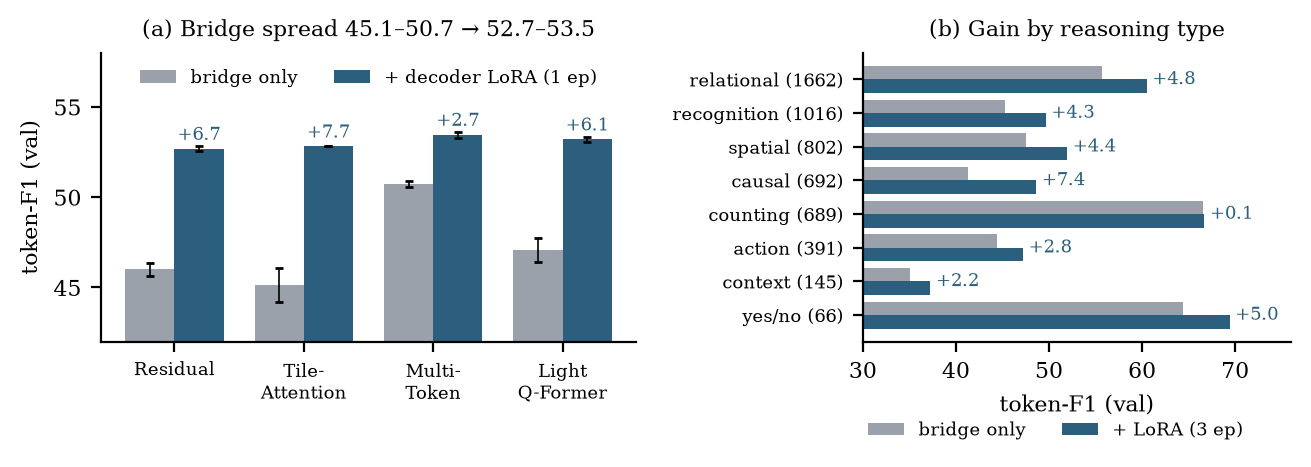
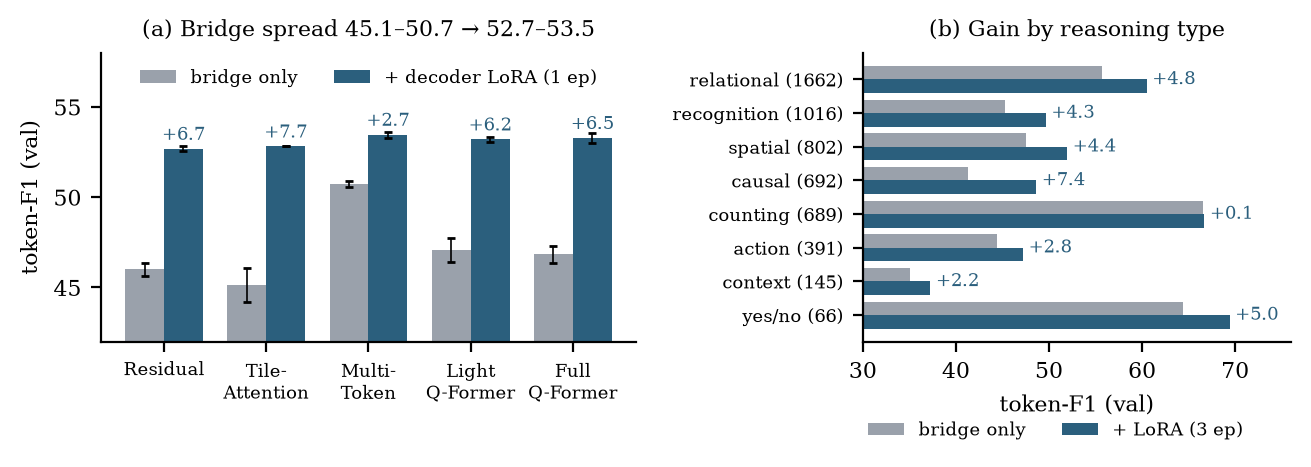
paper(aciids2027): add the leak-fixed Full Q-Former (3 seeds, whole image)
Full Q-Former retrained with the answer masked (peer commit 4a8eb6d): F1 46.84 -> +LoRA
53.29 (+6.5), CIDEr 87.7 -> 106.5. Added to Table 5, Fig. 2a and the capacity row of
Table 6 (-3.90); capacity sentence now cites both Q-Formers. Last \todo removed; all
tables on the whole-image protocol.

Changed region(s): [[0.0915, 0.2398, 0.4882, 0.7495], [0.0915, 0.7794, 0.4882, 0.8694]]

diff --git a/paper/aciids2027/Section/Experiments.tex b/paper/aciids2027/Section/Experiments.tex
@@ -206,15 +206,15 @@ bridge-only Multi-Token model (F1 50.74).
 \paragraph{Bridge architecture and decoder adaptation.}
 Table~\ref{tab:bridges} and Fig.~\ref{fig:results}a compare the bridges. Without
 LoRA, they span 45.14--50.74 F1. The Multi-Token bridge is the best and has the
-lowest validation cross-entropy, while the Light Q-Former, with $3.8\times$ more
-parameters, is 3.7 F1 lower: a larger bridge does not help a frozen decoder.
+lowest validation cross-entropy, while the Light and Full Q-Formers, with $3.8\times$
+and $9.4\times$ more parameters, are 3.7 and 3.9 F1 lower: a larger bridge does not
+help a frozen decoder.
 Training with decoder LoRA improves \emph{every} bridge, even though the joint
 1-epoch run sees the data half as often as the 2-epoch bridge-only run, and the
 improvement is largest for the weakest bridges ($+7.7$ for Tile-Attention, $+6.7$
 for Residual, $+2.7$ for Multi-Token). After LoRA, the bridges lie within 0.8 F1
 (52.69--53.47) and 2.4 CIDEr points, compared with 5.6 F1 and 14.9 CIDEr points
 before. Once the decoder can adapt, the choice of bridge therefore matters little.
-\todo{add the Full Q-Former row (answer leak fixed, retraining in progress).}
 
 \begin{table}[t]
 \centering
@@ -233,6 +233,7 @@ Residual        & 1 & 4.86M (0.52\%) & 1.67 & $46.02\pm0.36$ & $52.69\pm0.14$ & 
 Tile-Attention  & 8 & 4.14M (0.44\%) & 1.68 & $45.14\pm0.92$ & $52.82^\ast$ & $+7.7$ & $84.1\pm1.4$ & $104.7^\ast$ \\
 \textbf{Multi-Token} & \textbf{8} & \textbf{7.35M (0.78\%)} & \textbf{1.49} & $\mathbf{50.74\pm0.17}$ & $\mathbf{53.47\pm0.17}$ & $+2.7$ & $\mathbf{99.1\pm0.5}$ & $\mathbf{106.7\pm0.7}$ \\
 Light Q-Former  & 8 & 27.6M (2.87\%) & 1.60 & $47.06\pm0.66$ & $53.21\pm0.14$ & $+6.1$ & $88.1\pm1.9$ & $106.3\pm0.7$ \\
+Full Q-Former   & 16 & 69.4M (6.91\%) & 1.61 & $46.84\pm0.47$ & $53.29\pm0.29$ & $+6.5$ & $87.7\pm1.2$ & $106.5\pm1.0$ \\
 \bottomrule
 \end{tabular}}
 \end{table}
@@ -257,6 +258,7 @@ intervention with a clear gain is decoder adaptation.
 \toprule
 Component & Intervention & $\Delta$F1 \\
 \midrule
+Bridge capacity & Full Q-Former instead of Multi-Token & $-3.90$ \\
 Training signal & random reference answer per epoch & $-2.07$ \\
 Alignment & feature distillation to the original projector & $-0.39$ \\
 Alignment & logit distillation, weight $\lambda=0.1$ / $\lambda=1$ & $-0.28$ / $-9.05$ \\

diff --git a/paper/aciids2027/figures/make_figures.py b/paper/aciids2027/figures/make_figures.py
@@ -14,17 +14,17 @@ GREY, BLUE, RED = "#9aa1ab", "#2b5f7d", "#a33b3b"
 fig, (a, b) = plt.subplots(1, 2, figsize=(6.6, 2.5), gridspec_kw={"width_ratios": [1.25, 1]})
 
 # (a) decoder LoRA equalises the five bridges (in-house token-F1, val)
-names = ["Residual", "Tile-\nAttention", "Multi-\nToken", "Light\nQ-Former"]
+names = ["Residual", "Tile-\nAttention", "Multi-\nToken", "Light\nQ-Former", "Full\nQ-Former"]
 # whole-image re-evaluation (plans/paper-tables-full-image.md, 2026-10-05)
-plain = [46.02, 45.14, 50.74, 47.06]
-plain_sd = [0.36, 0.92, 0.17, 0.66]
-lora = [52.69, 52.82, 53.47, 53.21]
-lora_sd = [0.14, 0.0, 0.17, 0.14]
+plain = [46.02, 45.14, 50.74, 47.06, 46.84]
+plain_sd = [0.36, 0.92, 0.17, 0.66, 0.47]
+lora = [52.69, 52.82, 53.47, 53.21, 53.29]
+lora_sd = [0.14, 0.0, 0.17, 0.14, 0.29]
 x = range(len(names)); w = 0.38
 a.bar([i - w/2 for i in x], plain, w, yerr=plain_sd, color=GREY, label="bridge only", capsize=1.5, error_kw={"lw": 0.6})
 a.bar([i + w/2 for i in x], lora, w, yerr=lora_sd, color=BLUE, label="+ decoder LoRA (1 ep)", capsize=1.5, error_kw={"lw": 0.6})
 for i in x:
-    a.text(i + w/2, lora[i] + 0.25, f"+{lora[i]-plain[i]:.1f}", ha="center", va="bottom", fontsize=6.5, color=BLUE)
+    a.text(i + w/2, lora[i] + 0.25, f"+{lora[i]-plain[i]+1e-9:.1f}", ha="center", va="bottom", fontsize=6.5, color=BLUE)
 a.set_xticks(list(x)); a.set_xticklabels(names, fontsize=6.5)
 a.set_ylim(42, 58); a.set_ylabel("token-F1 (val)")
 a.legend(frameon=False, fontsize=6.5, loc="upper center", ncol=2, bbox_to_anchor=(0.5, 1.0))
